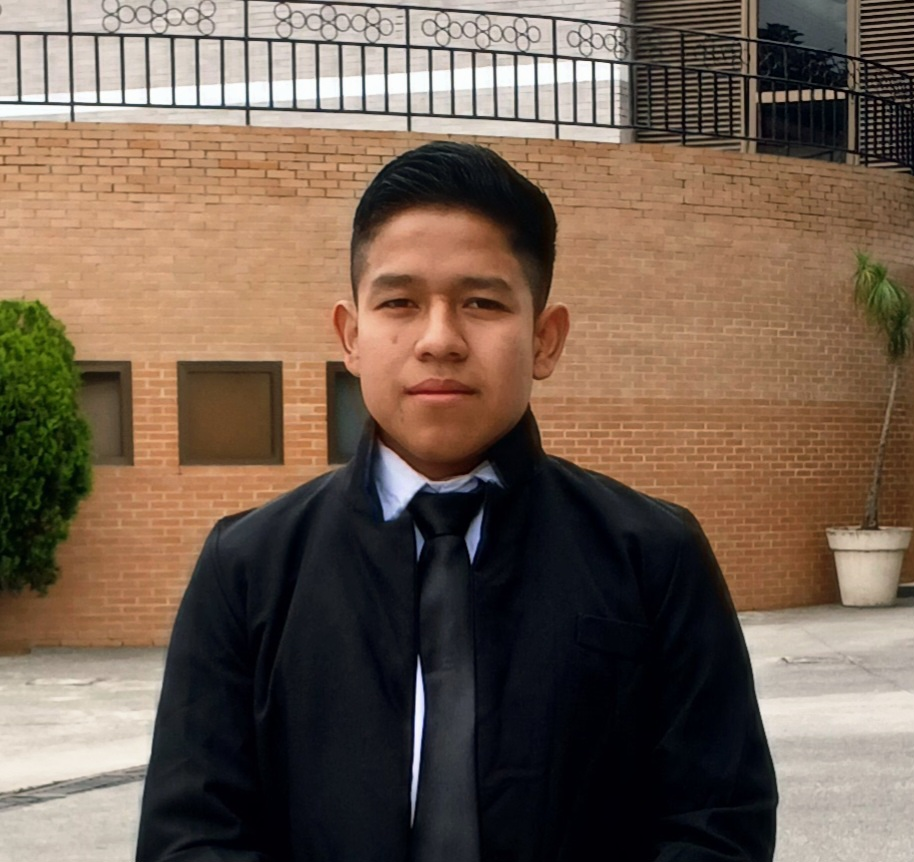
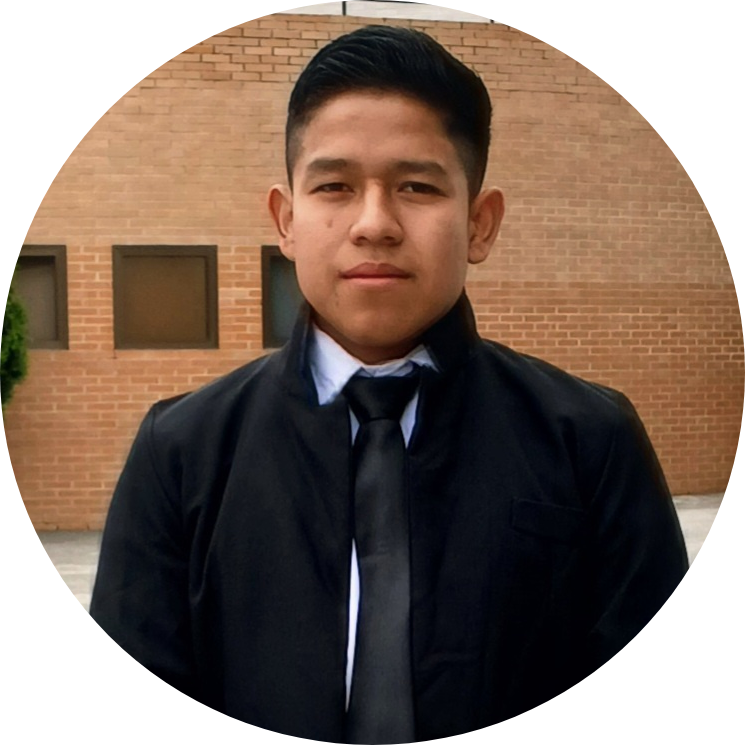
:lipstick: Upgrade of image profile and visit counter

diff --git a/ReadMe.md b/ReadMe.md
@@ -1,23 +1,23 @@
 <div align="center">
 
   <!-- Saludo animado e imagen de perfil -->
-  <img src="https://raw.githubusercontent.com/MartinMuzatko/gif-me-more-assets/master/assets/wave.gif" width="30px" alt="Waving Hand" />
+  <img src="https://raw.githubusercontent.com/MartinMuzatko/gif-me-more-assets/master/assets/wave.gif" width="30" alt="Waving Hand" />
   
-  <br />
+  <br /><br />
 
-  <img src="image.png?raw=true" width="180" height="180" alt="Henrik Anderson Oloroso García" style="border-radius: 50%; object-fit: cover; box-shadow: 0px 4px 15px rgba(0,0,0,0.2); transition: transform 0.3s ease;" />
+  <img src="image.png?raw=true" width="180" height="180" alt="Henrik Anderson Oloroso García" style="border-radius: 50%; object-fit: cover; box-shadow: 0px 4px 15px rgba(0,0,0,0.3);" />
 
-  # Henrik Anderson Oloroso García <img src="https://media.giphy.com/media/hvRJCLFzcasrR4ia7z/giphy.gif" width="28px">
+  # Henrik Anderson Oloroso García <img src="https://media.giphy.com/media/hvRJCLFzcasrR4ia7z/giphy.gif" width="28">
 
-  ### 🚀 Desarrollador Full Stack Junior en Formación
+  ### 🚀 Desarrollador Full Stack Junior
   📍 **Ciudad de Guatemala, Guatemala 🇬🇹**
 
-  <!-- Badges animadas con interacción al pasar el cursor -->
-  <a href="https://www.linkedin.com/in/anderson-oloroso-b45519327">
-    <img src="https://img.shields.io/badge/LinkedIn-0077B5?style=for-the-badge&logo=linkedin&logoColor=white" style="transition: opacity 0.3s;" onmouseover="this.style.opacity='0.8'" onmouseout="this.style.opacity='1'" />
+  <!-- Badges de Contacto -->
+  <a href="https://www.linkedin.com/in/anderson-oloroso-b45519327" target="_blank">
+    <img src="https://img.shields.io/badge/LinkedIn-0077B5?style=for-the-badge&logo=linkedin&logoColor=white" alt="LinkedIn" />
   </a>
   <a href="mailto:o.and871@gmail.com">
-    <img src="https://img.shields.io/badge/Gmail-D14836?style=for-the-badge&logo=gmail&logoColor=white" style="transition: opacity 0.3s;" onmouseover="this.style.opacity='0.8'" onmouseout="this.style.opacity='1'" />
+    <img src="https://img.shields.io/badge/Gmail-D14836?style=for-the-badge&logo=gmail&logoColor=white" alt="Gmail" />
   </a>
 
   <br /><br />
@@ -43,29 +43,29 @@
 <div align="center">
 
 ### **Frontend**
-<img src="https://img.shields.io/badge/HTML5-E34F26?style=for-the-badge&logo=html5&logoColor=white" />
-<img src="https://img.shields.io/badge/CSS3-1572B6?style=for-the-badge&logo=css3&logoColor=white" />
-<img src="https://img.shields.io/badge/JavaScript-F7DF1E?style=for-the-badge&logo=javascript&logoColor=black" />
-<img src="https://img.shields.io/badge/Bootstrap-7952B3?style=for-the-badge&logo=bootstrap&logoColor=white" />
+<img src="https://img.shields.io/badge/HTML5-E34F26?style=for-the-badge&logo=html5&logoColor=white" alt="HTML5" />
+<img src="https://img.shields.io/badge/CSS3-1572B6?style=for-the-badge&logo=css3&logoColor=white" alt="CSS3" />
+<img src="https://img.shields.io/badge/JavaScript-F7DF1E?style=for-the-badge&logo=javascript&logoColor=black" alt="JS" />
+<img src="https://img.shields.io/badge/Bootstrap-7952B3?style=for-the-badge&logo=bootstrap&logoColor=white" alt="Bootstrap" />
 
 ### **Backend & Lenguajes**
-<img src="https://img.shields.io/badge/Python-3776AB?style=for-the-badge&logo=python&logoColor=white" />
-<img src="https://img.shields.io/badge/C%2B%2B-00599C?style=for-the-badge&logo=cplusplus&logoColor=white" />
-<img src="https://img.shields.io/badge/VB.NET-5C2D91?style=for-the-badge&logo=.net&logoColor=white" />
+<img src="https://img.shields.io/badge/Python-3776AB?style=for-the-badge&logo=python&logoColor=white" alt="Python" />
+<img src="https://img.shields.io/badge/C%2B%2B-00599C?style=for-the-badge&logo=cplusplus&logoColor=white" alt="C++" />
+<img src="https://img.shields.io/badge/VB.NET-5C2D91?style=for-the-badge&logo=.net&logoColor=white" alt="VB.NET" />
 
 ### **Bases de Datos & Administración**
-<img src="https://img.shields.io/badge/SQL-003B57?style=for-the-badge&logo=database&logoColor=white" />
-<img src="https://img.shields.io/badge/MySQL-4479A1?style=for-the-badge&logo=mysql&logoColor=white" />
-<img src="https://img.shields.io/badge/PostgreSQL-4169E1?style=for-the-badge&logo=postgresql&logoColor=white" />
-<img src="https://img.shields.io/badge/phpMyAdmin-6C783F?style=for-the-badge&logo=phpmyadmin&logoColor=white" />
+<img src="https://img.shields.io/badge/SQL-003B57?style=for-the-badge&logo=database&logoColor=white" alt="SQL" />
+<img src="https://img.shields.io/badge/MySQL-4479A1?style=for-the-badge&logo=mysql&logoColor=white" alt="MySQL" />
+<img src="https://img.shields.io/badge/PostgreSQL-4169E1?style=for-the-badge&logo=postgresql&logoColor=white" alt="PostgreSQL" />
+<img src="https://img.shields.io/badge/phpMyAdmin-6C783F?style=for-the-badge&logo=phpmyadmin&logoColor=white" alt="phpMyAdmin" />
 
 ### **Herramientas & Especialidades**
-<img src="https://img.shields.io/badge/Git-F05032?style=for-the-badge&logo=git&logoColor=white" />
-<img src="https://img.shields.io/badge/GitHub-100000?style=for-the-badge&logo=github&logoColor=white" />
-<img src="https://img.shields.io/badge/GitKraken-179287?style=for-the-badge&logo=gitkraken&logoColor=white" />
-<img src="https://img.shields.io/badge/VS_Code-007ACC?style=for-the-badge&logo=visual-studio-code&logoColor=white" />
-<img src="https://img.shields.io/badge/PyCharm-000000?style=for-the-badge&logo=pycharm&logoColor=white" />
-<img src="https://img.shields.io/badge/Prompt_Engineering-8E44AD?style=for-the-badge&logo=openai&logoColor=white" />
+<img src="https://img.shields.io/badge/Git-F05032?style=for-the-badge&logo=git&logoColor=white" alt="Git" />
+<img src="https://img.shields.io/badge/GitHub-100000?style=for-the-badge&logo=github&logoColor=white" alt="GitHub" />
+<img src="https://img.shields.io/badge/GitKraken-179287?style=for-the-badge&logo=gitkraken&logoColor=white" alt="GitKraken" />
+<img src="https://img.shields.io/badge/VS_Code-007ACC?style=for-the-badge&logo=visual-studio-code&logoColor=white" alt="VSCode" />
+<img src="https://img.shields.io/badge/PyCharm-000000?style=for-the-badge&logo=pycharm&logoColor=white" alt="PyCharm" />
+<img src="https://img.shields.io/badge/Prompt_Engineering-8E44AD?style=for-the-badge&logo=openai&logoColor=white" alt="Prompt Engineering" />
 
 </div>
 
@@ -75,9 +75,9 @@
 
 | Proyecto | Descripción | Enlace |
 | :--- | :--- | :---: |
-| **📚 Administrador de Libros, Películas y Música** | Sistema de control y gestión de bases de datos para administrar catálogos multimedia. | [Ver Repositorio](https://github.com/Anderson-Oloroso/AdminLibros.git) |
-| **🏪 Administrador de Inventarios** | Aplicación orientada a la gestión y control de inventarios para pequeñas tiendas y negocios. | [Ver Repositorio](https://github.com/Anderson-Oloroso/TallerInventarioTienda.git) |
-| **🎮 Ranking de Videojuegos** | Algoritmo y sistema de filtrado que procesa listas de videojuegos para mostrar el TOP 3 con mejores valoraciones. | [Ver Repositorio](https://github.com/Anderson-Oloroso/RankingVideojuegos.git) |
+| **📚 Administrador de Libros, Películas y Música** | Sistema de control y gestión de bases de datos para administrar catálogos multimedia. | [💻 Ver Repositorio](https://github.com/Anderson-Oloroso/AdminLibros.git) |
+| **🏪 Administrador de Inventarios** | Aplicación orientada a la gestión y control de inventarios para pequeñas tiendas y negocios. | [💻 Ver Repositorio](https://github.com/Anderson-Oloroso/TallerInventarioTienda.git) |
+| **🎮 Ranking de Videojuegos** | Algoritmo y sistema de filtrado que procesa listas de videojuegos para mostrar el TOP 3 con mejores valoraciones. | [💻 Ver Repositorio](https://github.com/Anderson-Oloroso/RankingVideojuegos.git) |
 
 ---
 
@@ -89,9 +89,7 @@
 
   <img src="https://github-readme-activity-graph.vercel.app/graph?username=Anderson-Oloroso&theme=react-dark&hide_border=true" alt="Gráfico de Actividad de Código" width="100%" />
 
-</div>
-
-<div align="center">
+  <br /><br />
 
   <img src="./profile-3d-contrib/profile-night-rainbow.svg" alt="Gráfico de Contribuciones 3D Arcoíris - Anderson Oloroso" width="100%" />
 
@@ -103,11 +101,16 @@
 
   ### 📬 ¡Conectemos y construyamos algo increíble juntos!
   
-  <a href="https://www.linkedin.com/in/anderson-oloroso-b45519327">
-    <img src="https://img.shields.io/badge/LinkedIn-0077B5?style=for-the-badge&logo=linkedin&logoColor=white" />
+  <a href="https://www.linkedin.com/in/anderson-oloroso-b45519327" target="_blank">
+    <img src="https://img.shields.io/badge/LinkedIn-0077B5?style=for-the-badge&logo=linkedin&logoColor=white" alt="LinkedIn" />
   </a>
   <a href="mailto:o.and871@gmail.com">
-    <img src="https://img.shields.io/badge/Email-D14836?style=for-the-badge&logo=gmail&logoColor=white" />
+    <img src="https://img.shields.io/badge/Email-D14836?style=for-the-badge&logo=gmail&logoColor=white" alt="Email" />
   </a>
+
+  <br /><br />
+
+  <!-- Contador de vistas dinámico -->
+  <img src="https://komarev.com/ghpvc/?username=Anderson-Oloroso&color=0077B5&style=flat-square&label=Vistas+del+Perfil" alt="Contador de vistas" />
 
 </div>
